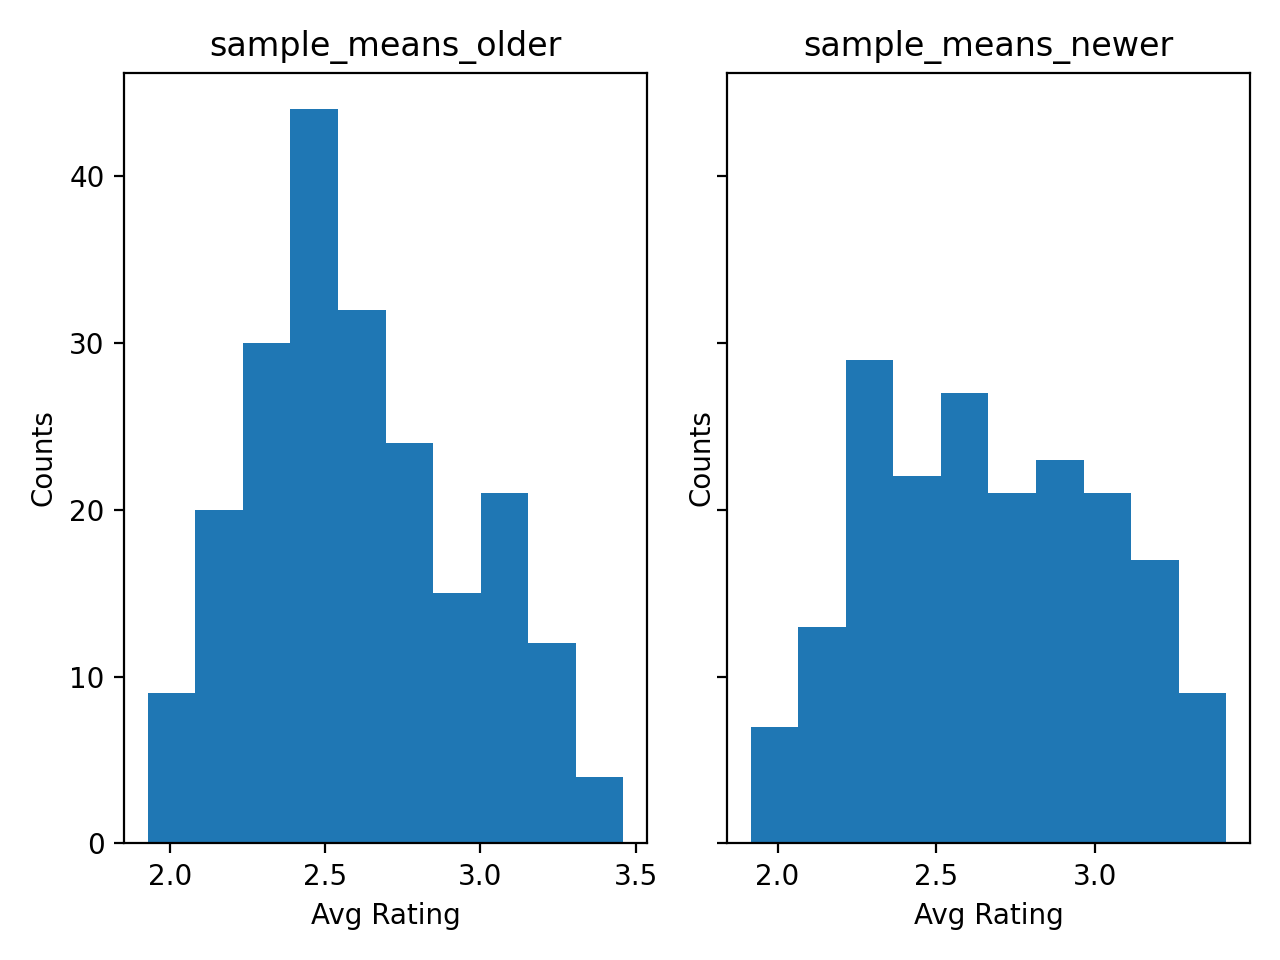
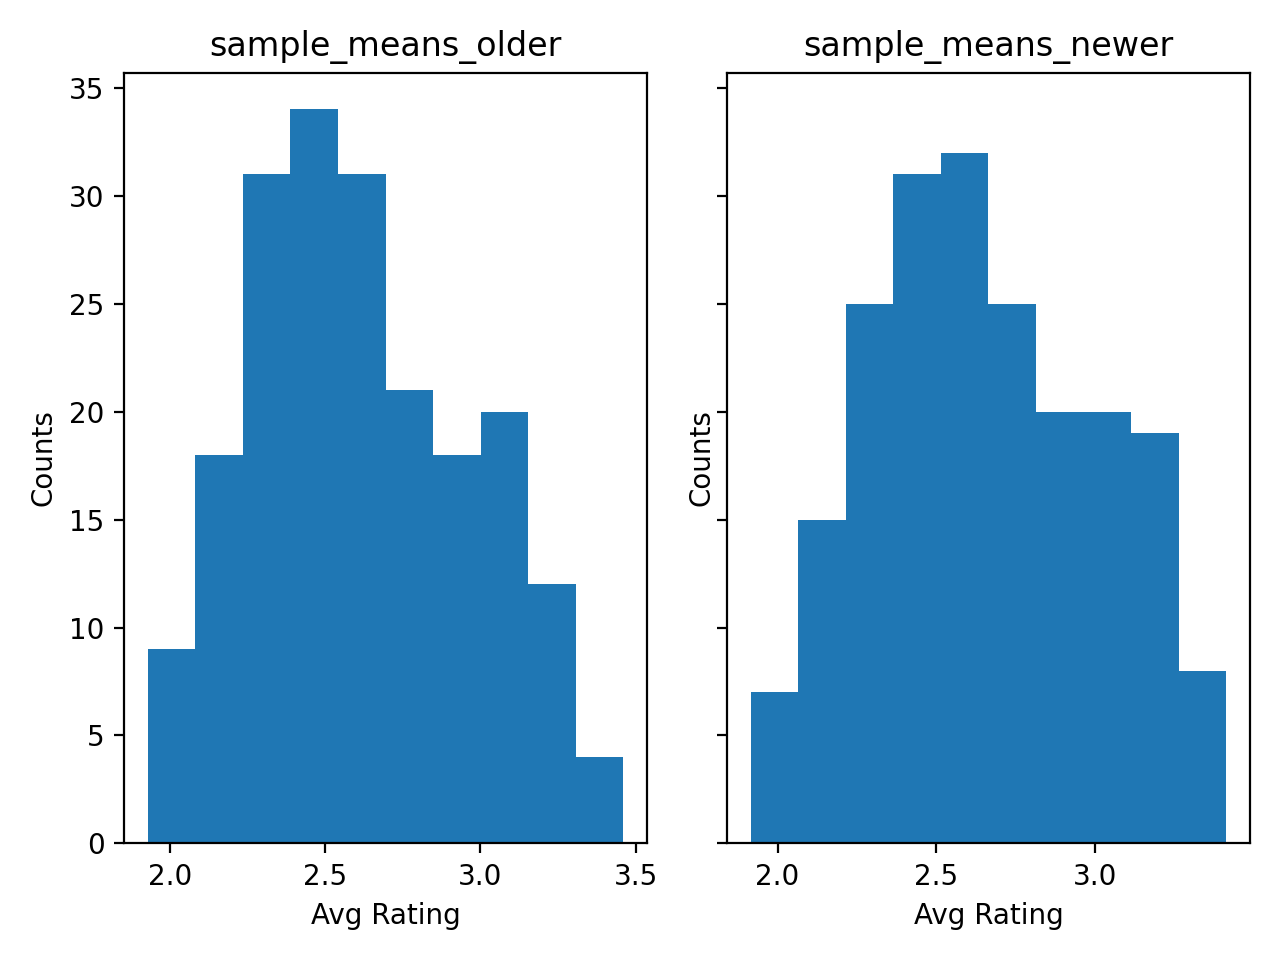
More OOP changes

diff --git a/movies.py b/movies.py
@@ -9,7 +9,7 @@ import re
 import itertools
 
 
-#Movie class
+#Movie class -- future work: introduce sets (dict are unordered but structure here v ordered), debug, more clever algos, use pandas vs numpy everything
 
 class movie:
 
@@ -44,15 +44,22 @@ class movie:
             for entry in self.data: self.data_dropnan.append(entry[~np.isnan(entry)])
             return self.data_dropnan
 
-    def table(self, dropNan = False):
+    def table(self, dropNan = False, moviesOnly = False):
         self.dict = {}
         data = self.columnData(dropNan)
         self.titles = list(self.dataset.columns)
         d = 0
-        for title in self.titles:
-            self.dict.__setitem__(title, data[d]) 
-            d+=1
-        return self.dict
+        if not moviesOnly:
+            for title in self.titles:
+                self.dict.__setitem__(title, data[d]) 
+                d+=1
+            return self.dict
+        else:
+            for title in self.titles[:self.movieCols]:
+                self.dict.__setitem__(title, data[d]) 
+                d+=1
+            return self.dict
+
 
     def popularity(self, colTitle = "All"):
         self.entry = colTitle
@@ -73,15 +80,15 @@ class movie:
 
         return self.popularities
     
-    def plot(self,x,y, name = "FIGUREX", n_bins = 10,titleX="Xtitle",titleY="Ytitle",x1="xlbl1",y1="ylbl1",x2="xlbl2",y2="ylbl2"):
+    def plot(self,x,y, name = "FIGUREX", n_bins = 10,titleX="Xtitle",titleY="Ytitle",x1="xlbl1",x2="xlbl2",y1="ylbl1",y2="ylbl2"):
         n_bins = 10
         fig, axs = plt.subplots(1, 2, sharey=True, tight_layout=True)
         axs[0].set_title(titleX)
         axs[1].set_title(titleY)
-        axs[0].set_ylabel(y1)
-        axs[1].set_ylabel(y2)
-        axs[0].set_xlabel(x1)
-        axs[1].set_xlabel(x2)
+        axs[0].set_ylabel(x1)
+        axs[1].set_ylabel(y1)
+        axs[0].set_xlabel(x2)
+        axs[1].set_xlabel(y2)
         axs[0].hist(x, bins=n_bins)
         axs[1].hist(y, bins=n_bins)
         fig.tight_layout()
@@ -108,8 +115,25 @@ class movie:
                 res = "fail to reject"
                 eq = ">"
 
-            print("As p-value of {pval} is {sign} alpha of {alpha} at test statistic {stat}, we {res} the null hypothesis.\nThere is {suf} evidence to suggest that {analysis}.".format(sign = eq, \
-                pval = format(self.val[1],".5f"), stat = format(self.val[0],".5f"), alpha= self.alpha, suf = s, res = res, analysis=text.lstrip()))     
+            print("As p-value of {pval} is {sign} alpha of {alpha} at test statistic {stat}, we {res} the null hypothesis.\nThere is {suf} evidence to suggest that {analysis}".format(sign = eq, \
+                pval = format(self.val[1],".5f"), stat = format(self.val[0],".3f"), alpha= self.alpha, suf = s, res = res, analysis=text.lstrip()))     
+        else:
+            return self.val
+   
+    def utest2(self, x,y, hyp = 'two-sided', text = "that <what you try to test>"):
+        self.val = stats.mannwhitneyu(x, y, alternative='two-sided', method='auto')
+        if self.verbose:
+            if self.val[1] < self.alpha:
+                s = "sufficient"
+                res = "reject"
+                eq = "<"
+            else:
+                s = "insufficient"
+                res = "fail to reject"
+                eq = ">"
+
+            print("As p-value of {pval} is {sign} alpha of {alpha} at test statistic {stat}, we {res} the null hypothesis.\nThere is {suf} evidence to suggest that {analysis}".format(sign = eq, \
+                pval = format(self.val[1],".5f"), stat = format(self.val[0],".3f"), alpha= self.alpha, suf = s, res = res, analysis=text.lstrip()))     
         else:
             return self.val
 
@@ -121,55 +145,49 @@ class movie:
             self.years.append(re.findall(r'\d+', title)) #fix [['2001'],['1995'],...] if you have time
         self.years = [i[0] for i in self.years]
         return list(map(int, self.years))
-        
-            
-
+    
+    def rowElimWRT_ref_col(self, ref_col_title, compared_col_title):
+        df = Movies.dataset
+        mod_df = df.dropna( how='any', subset=[ref_col_title, compared_col_title])
+        return np.array(mod_df[ref_col_title]), np.array(mod_df[compared_col_title])
+   
 
 Movies = movie()
-testcol = Movies.columnData(dropNan = False)
-test = Movies.popularity()
-table = Movies.table(dropNan = True)
+#Some useful dictionaries
+data_clean = Movies.table(dropNan=True)
+movies_clean = Movies.table(dropNan=True, moviesOnly=True)
 
 # read csv file
-input = pd.read_csv("movieReplicationSet.csv")
-df = input.to_numpy()
-data = []
-for col in range(df.shape[1]):
-    vec = []
-    for row in range(df.shape[0]):
-        vec.append(df[row,col])
-    data.append(vec)
-data = np.array(data)
+# input = pd.read_csv("movieReplicationSet.csv")
+# df = input.to_numpy()
+# data = []
+# for col in range(df.shape[1]):
+#     vec = []
+#     for row in range(df.shape[0]):
+#         vec.append(df[row,col])
+#     data.append(vec)
+# data = np.array(data)
 
-movies_clean = []
-for entry in data: movies_clean.append(entry[~np.isnan(entry)])
-
-#TO DO: METHOD FOR PLOTTING WITH SPECIFIC LABELS (RATINGS VS AVG RATINGS ON X AXIS)
-#TO DO: Automated script writing for conclusions, global alpha vals
-#TO DO: Why use "input" then "movie_clean" then indexing. clean up dict  of Movie Name: np.array()
-
-movies = movies_clean[:400]
-# Are movies that are more popular (operationalized as having more ratings) rated higher than movies that 
-# are less popular? 
-
+#movies_clean = []
+#for entry in data: movies_clean.append(entry[~np.isnan(entry)])
 
 movies_popularities = Movies.popularity()
 median_pop = st.median(movies_popularities)
 populars = []
 sleepers = []
+movies_col = Movies.columnData(dropNan=True)
 #median-split of movie popularities
 for i in range(len(movies_popularities)):
     if movies_popularities[i] > median_pop:
-        populars.append(movies_clean[i])
+        populars.append(movies_col[i])
     elif movies_popularities[i] < median_pop:
-        sleepers.append(movies_clean[i])
-
+        sleepers.append(movies_col[i])
     if movies_popularities[i] == median_pop:
         choice = random.randint(0, 1)
         if choice:
-            populars.append(movies_clean[i])
+            populars.append(movies_col[i])
         else:
-            sleepers.append(movies_clean[i])
+            sleepers.append(movies_col[i])
     
 if (len(sleepers)+len(populars)!=400):error("DATA MISMATCH")
             
@@ -181,31 +199,29 @@ for movie in sleepers: sample_means_sleepers.append(np.mean(movie))
 Movies.plot(sample_means_populars, sample_means_sleepers, "Q1", n_bins = 10, titleX = "sample_means_populars",titleY = "sample_means_sleepers", \
     x1="Counts",y1="Counts",x2="Avg Rating",y2="Avg Rating")
 
-pval_q1 = stats.ttest_ind(sample_means_populars, sample_means_sleepers, axis=0, equal_var=False, \
-nan_policy='raise', permutations=None, random_state=None, alternative='greater', trim=0)
-print(pval_q1)
-pval1 = Movies.ttest2(sample_means_populars,sample_means_sleepers, hyp = 'greater', text = "that movies that are more\
-popular have ratings that are higher than movies that are less popular")
+#pval_q1 = stats.ttest_ind(sample_means_populars, sample_means_sleepers, axis=0, equal_var=False, \
+#nan_policy='raise', permutations=None, random_state=None, alternative='greater', trim=0)
+#print(pval_q1)
+pval1 = Movies.ttest2(sample_means_populars,sample_means_sleepers, hyp = 'greater', text = "that movies that are more \
+popular have ratings that are higher than movies that are less popular.")
 
 # Are movies that are newer rated differently than movies that are older? 
-movie_yrs = input.iloc[0,:400].to_string()
 movie_yrs = Movies.movieYrs()
 mean_yrs = np.mean(movie_yrs)
-
 sample_means_movies = []
-for i in range(len(movie_yrs)): sample_means_movies.append(np.mean(movies_clean[i]))
+for ratings in movies_col: sample_means_movies.append(np.mean(ratings))
 
 #median-split of movie years
 newer = []
 older = []
-median_age = st.median(years)
-for i in range(len(years)):
-    if years[i] > median_age:
+median_age = st.median(movie_yrs)
+for i in range(len(movie_yrs)):
+    if movie_yrs[i] > median_age:
         newer.append(sample_means_movies[i])
-    elif years[i] < median_age:
+    elif movie_yrs[i] < median_age:
         older.append(sample_means_movies[i])
 
-    if years[i] == median_age:
+    if movie_yrs[i] == median_age:
         choice = random.randint(0, 1)
         if choice:
             newer.append(sample_means_movies[i])
@@ -214,40 +230,23 @@ for i in range(len(years)):
 
 if (len(newer)+len(older)!=400):error("DATA MISMATCH")
 
-n_bins = 10
-fig, axs = plt.subplots(1, 2, sharey=True, tight_layout=True)
-axs[0].set_title("sample_means_older")
-axs[1].set_title("sample_means_newer")
-axs[0].set_ylabel('Counts')
-axs[1].set_ylabel('Counts')
-axs[0].set_xlabel('Avg Rating')
-axs[1].set_xlabel('Avg Rating')
-axs[0].hist(older, bins=n_bins)
-axs[1].hist(newer, bins=n_bins)
-fig.tight_layout()
-fig.savefig('Q2.png', dpi=200) 
-plt.show()
+Movies.plot(older, newer, "Q2", n_bins = 10, titleX = "sample_means_older",titleY = "sample_means_newer", \
+    x1="Counts",y1="Counts",x2="Avg Rating",y2="Avg Rating")
 
-#TO DO: ASSUMPTIONS for U
-variances2 = [st.variance(newer), st.variance(older)]
-
-pval_q2 = stats.mannwhitneyu(newer, older, alternative='two-sided', method='auto')
-print(pval_q2)       
-
-#As pval > 0.05 we fail to reject the null hypothesis. There is insufficient evidence to suggest that movies 
-#that are newer are rated differently than movies that are older.
+#pval_q2 = stats.mannwhitneyu(newer, older, alternative='two-sided', method='auto')
+#print(pval_q2)     
+pval2 = Movies.utest2(newer,older, hyp = 'two-sided', text = "that newer movies are rated differently than older films.")  
 
 # Is enjoyment of ‘Shrek (2001)’ gendered, i.e. do male and female viewers rate it differently? 
 
-idx_gender = input.columns.get_loc('Gender identity (1 = female; 2 = male; 3 = self-described)')
-idx_ratings_shrek = input.columns.get_loc('Shrek (2001)')
 shrek_males = [] 
 shrek_females = []
-genders = np.array(data[idx_gender])
-ratings_shrek = np.array(data[idx_ratings_shrek])
+#row-wise elimination of entries needed as gender may have NAN for entries movie does not and vice-versa
+genders, ratings_shrek = Movies.rowElimWRT_ref_col('Gender identity (1 = female; 2 = male; 3 = self-described)','Shrek (2001)')
+
 count = 0
 for i in range(len(genders)):
-    if np.isnan(genders[i]) or np.isnan(ratings_shrek[i]): continue
+   
     if genders[i] == 1:
         shrek_females.append(ratings_shrek[i])
         count+=1
@@ -265,31 +264,19 @@ for i in range(len(genders)):
     else: error('GENDER MISMATCH')
 if count!=len(shrek_females)+len(shrek_males):error('POSSIBLE DATA MISMATCH')
 
-n_bins = 10
-fig, axs = plt.subplots(1, 2, sharey=True, tight_layout=True)
-axs[0].set_title("sample_ratings_male")
-axs[1].set_title("sample_ratings_female")
-axs[0].set_ylabel('Counts')
-axs[1].set_ylabel('Counts')
-axs[0].set_xlabel('Avg Rating')
-axs[1].set_xlabel('Avg Rating')
-axs[0].hist(shrek_males, bins=n_bins)
-axs[1].hist(shrek_females, bins=n_bins)
-fig.tight_layout()
-fig.savefig('Q3.png', dpi=200) 
-plt.show()
+Movies.plot(shrek_males, shrek_females, "Q3", n_bins = 3, titleX = "sample_ratings_male",titleY = "sample_ratings_female", \
+    x1="Counts",y1="Counts",x2="Rating",y2="Rating")
 
-variances3 = [st.variance(shrek_males), st.variance(shrek_females)]
 
-#TO-DO: ASSUMPTIONS
-pval_q3 = stats.mannwhitneyu(sample_means_populars, sample_means_sleepers, alternative='two-sided', method='auto')
+#pval_q3 = stats.mannwhitneyu(shrek_males, shrek_females, alternative='two-sided', method='auto')
+#print(pval_q3)
+pval3 = Movies.utest2(shrek_males,shrek_females, hyp = 'two-sided', text = "that enjoyment of Shrek (2001) is gendered.")  
 
-print(pval_q3)
-
-#As pval << 0.05 we reject the null hypothesis. There is sufficient evidence to suggest that enjoyment
-#of Shrek (2001) is gendered.
 
 # What proportion of movies are rated differently by male and female viewers? 
+Movies.proportion("gender blah")
+
+
 ratings = np.array(data[:400])
 count = 0
 sig_diff = 0
